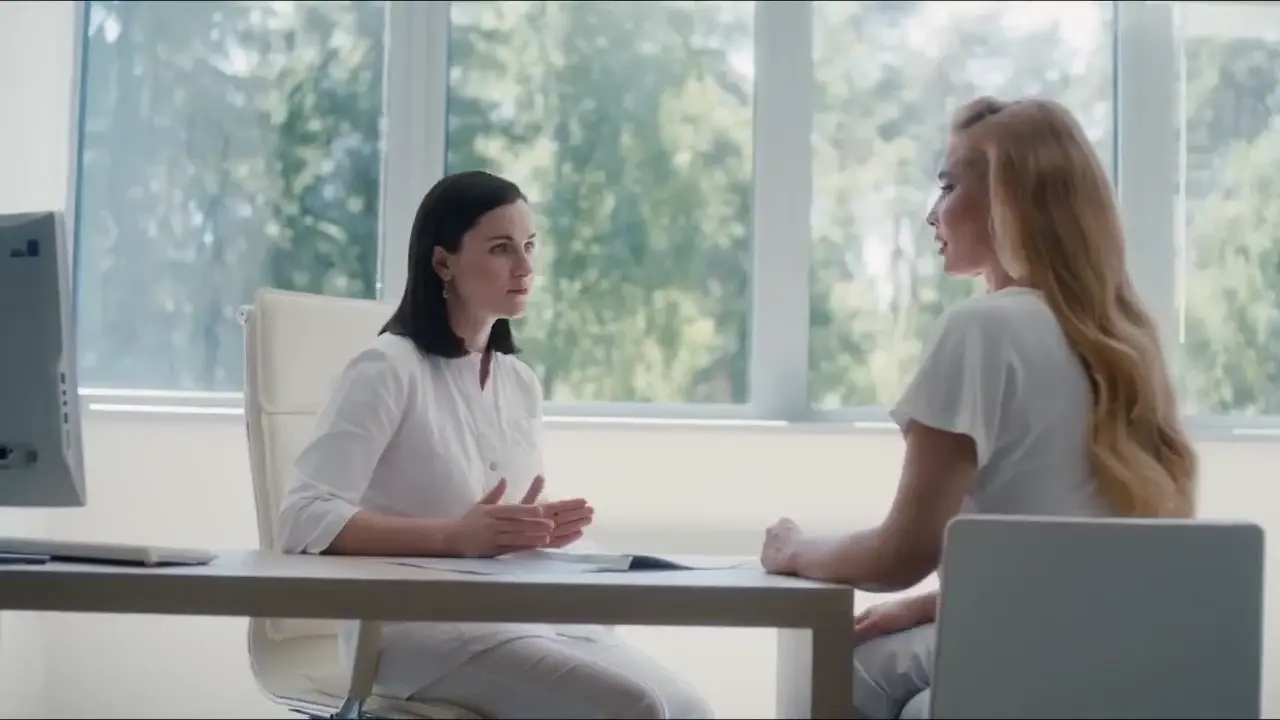
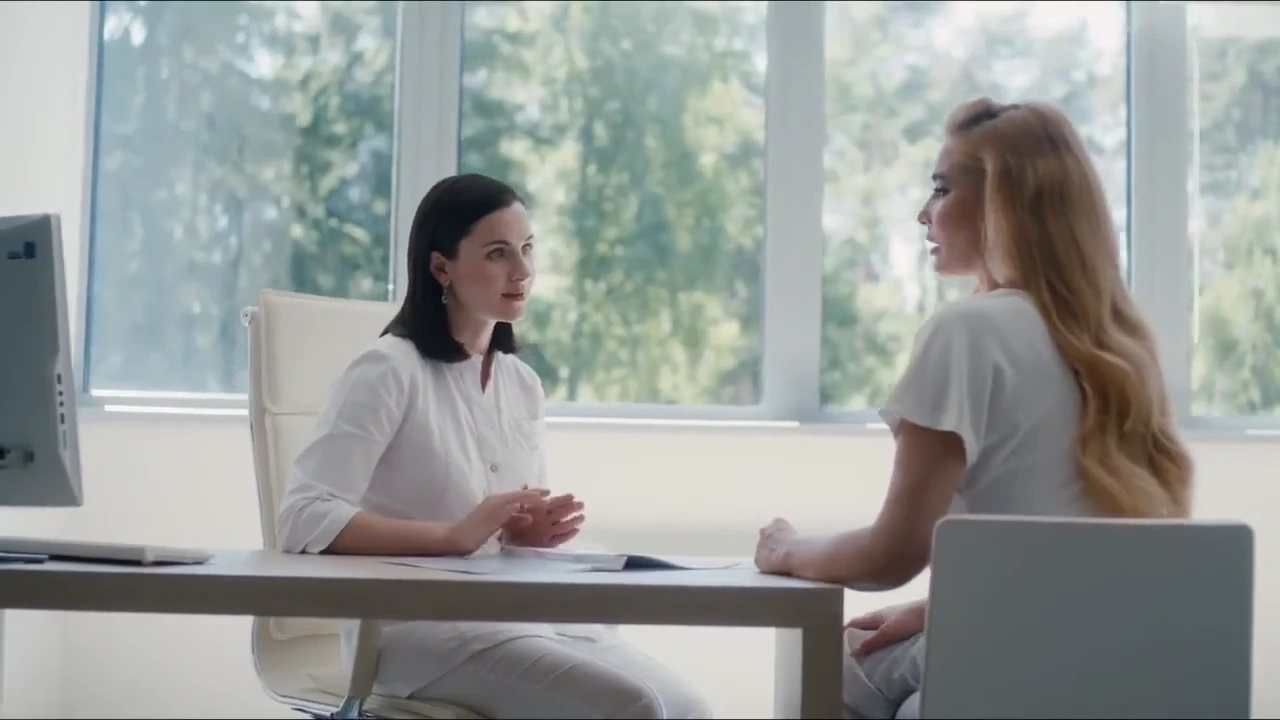
style: refine VERBA care imagery and emphasize the physician scene

diff --git a/index.html b/index.html
@@ -6,8 +6,8 @@
 <main id="main">
 <section class="hero-story" id="home" aria-labelledby="hero-title"><div class="hero-frame"><div class="hero-media"><div class="hero-camera"><video id="hero-video" muted loop playsinline preload="metadata" poster="assets/motion/hero-poster.webp" aria-label="Территория медицинского курорта VERBA"><source src="assets/motion/hero-film.mp4" type="video/mp4"></video><div class="film-shade"></div></div></div><div class="hero-topline"><span>Медицинский курорт</span><span>Подмосковье · Сосновый бор</span></div><div class="hero-title-group"><h1 id="hero-title">VERBA</h1><div class="hero-message"><p class="hero-statement">Здоровье<br>в новом ритме.</p><a class="line-link" href="#directions">Найти своё направление<svg viewBox="0 0 20 20" aria-hidden="true"><path d="M4 16 16 4M5 4h11v11"/></svg></a></div></div><div class="hero-bottom"><a href="#intro" class="scroll-link"><svg viewBox="0 0 20 20" aria-hidden="true"><path d="M10 3v14m-5-5 5 5 5-5"/></svg>В своём темпе</a><button id="video-toggle" aria-label="Остановить видео" aria-pressed="false"><svg viewBox="0 0 20 20" aria-hidden="true"><path d="M6 4v12M14 4v12"/></svg><span>Пауза видео</span></button></div><div class="hero-transition"><span class="section-label">01 / ВОССТАНОВЛЕНИЕ</span><h2><span>Медицина.</span><span>Природа.</span><span>Вы.</span></h2><p data-pretext contenteditable="false">Персональное здоровье начинается с внимания к человеку. В окружении, которое помогает услышать себя.</p></div></div></section>
 <section class="intro wrap" id="intro" aria-label="Направления VERBA"><p class="section-label">ВАШ МАРШРУТ В VERBA</p><div class="intro-grid"><p class="intro-lead" data-pretext>Питание по методу Майера. Ментальное здоровье. Эстетический уход. SPA.</p><a class="line-link" href="#directions">Выбрать направление<svg viewBox="0 0 20 20" aria-hidden="true"><path d="M4 16 16 4M5 4h11v11"/></svg></a></div></section>
-<section class="directions" id="directions" aria-labelledby="directions-title"><div class="path-layout"><div class="path-visual"><div class="path-pan"><img class="direction-image is-active" data-image="mayr" src="assets/motion/mayr.webp" width="900" height="600" alt="Ресторан VERBA" loading="lazy"><img class="direction-image" data-image="mind" src="assets/motion/mind.webp" width="900" height="600" alt="Гость VERBA в спокойной обстановке" loading="lazy"><img class="direction-image beauty-image" data-image="beauty" src="assets/motion/beauty-portrait.webp" width="1280" height="720" alt="Портрет из официального фильма VERBA" loading="lazy"><img class="direction-image" data-image="spa" src="assets/motion/spa.webp" width="900" height="600" alt="Бассейн VERBA с видом на сосновый бор" loading="lazy"></div><div class="path-shade"></div><div class="path-visual-label"><span id="visual-direction">MAYR</span><span id="visual-index">01 / 04</span></div></div><div class="path-content"><p class="section-label">ЧЕТЫРЕ НАПРАВЛЕНИЯ</p><h2 id="directions-title">Какой ритм<br>нужен вам?</h2><div class="path-tabs" role="tablist" aria-label="Направления VERBA" aria-orientation="vertical"><button class="path-tab is-active" id="tab-mayr" role="tab" aria-selected="true" aria-controls="path-panel" data-direction="mayr"><span class="tab-index">01</span><span>MAYR</span><svg viewBox="0 0 20 20" aria-hidden="true"><path d="M4 16 16 4M5 4h11v11"/></svg></button><button class="path-tab" id="tab-mind" role="tab" aria-selected="false" aria-controls="path-panel" tabindex="-1" data-direction="mind"><span class="tab-index">02</span><span>MIND</span><svg viewBox="0 0 20 20" aria-hidden="true"><path d="M4 16 16 4M5 4h11v11"/></svg></button><button class="path-tab" id="tab-beauty" role="tab" aria-selected="false" aria-controls="path-panel" tabindex="-1" data-direction="beauty"><span class="tab-index">03</span><span>BEAUTY</span><svg viewBox="0 0 20 20" aria-hidden="true"><path d="M4 16 16 4M5 4h11v11"/></svg></button><button class="path-tab" id="tab-spa" role="tab" aria-selected="false" aria-controls="path-panel" tabindex="-1" data-direction="spa"><span class="tab-index">04</span><span>SPA</span><svg viewBox="0 0 20 20" aria-hidden="true"><path d="M4 16 16 4M5 4h11v11"/></svg></button></div><div class="path-panel" id="path-panel" role="tabpanel" aria-labelledby="tab-mayr" tabindex="0"><h3 id="path-title">Лёгкость начинается изнутри.</h3><p id="path-description" data-pretext contenteditable="false">Питание и привычки по методу Майера. Внимательный медицинский подход к пищеварению и вашему самочувствию.</p><button class="line-link" data-picker data-current-direction>Составить личный план<svg viewBox="0 0 20 20" aria-hidden="true"><path d="M4 16 16 4M5 4h11v11"/></svg></button></div><p class="medical-note">Программа, длительность и противопоказания обсуждаются с врачом.</p></div></div><p class="sr-only" id="direction-status" role="status" aria-live="polite">Выбрано направление MAYR</p></section>
-<section class="medicine wrap" id="medicine"><div class="medicine-heading"><span class="section-label">ОСНОВА ВАШЕГО МАРШРУТА</span><h2 class="reveal">В центре —<br>человек.</h2></div><div class="medicine-grid"><figure><div class="portrait-crop"><img src="assets/motion/medical.webp" width="1280" height="720" alt="Консультация врача — кадр официального фильма VERBA" loading="lazy"></div><figcaption>Внимание к вашей истории.<br>Не к усреднённому сценарию.</figcaption></figure><div class="medicine-copy"><p class="medicine-lead" data-pretext contenteditable="false">Здоровье требует точности. А восстановление — заботы, пространства и времени.</p><div class="approach-row"><span>01</span><div><h3>Понять ваш запрос</h3><p>Самочувствие, привычки и личные цели — в разговоре с врачом.</p></div></div><div class="approach-row"><span>02</span><div><h3>Увидеть картину целиком</h3><p>Собственная диагностическая база. Обследования по показаниям.</p></div></div><div class="approach-row"><span>03</span><div><h3>Найти ваш маршрут</h3><p>Индивидуальный подход к питанию, восстановлению и дальнейшим шагам.</p></div></div><button class="line-link" data-picker>Начать с вашей цели<svg viewBox="0 0 20 20" aria-hidden="true"><path d="M4 16 16 4M5 4h11v11"/></svg></button></div></div></section>
+<section class="directions" id="directions" aria-labelledby="directions-title"><div class="path-layout"><div class="path-visual"><div class="path-pan"><img class="direction-image is-active" data-image="mayr" src="assets/motion/mayr.webp" width="900" height="600" alt="Ресторан VERBA" loading="lazy"><img class="direction-image" data-image="mind" src="assets/motion/mind.webp" width="900" height="600" alt="Гость VERBA в спокойной обстановке" loading="lazy"><img class="direction-image beauty-image" data-image="beauty" src="assets/motion/beauty-care.webp" width="1280" height="720" alt="Специалист VERBA с аппаратом — кадр официального фильма" loading="lazy"><img class="direction-image" data-image="spa" src="assets/motion/spa.webp" width="900" height="600" alt="Бассейн VERBA с видом на сосновый бор" loading="lazy"></div><div class="path-shade"></div><div class="path-visual-label"><span id="visual-direction">MAYR</span><span id="visual-index">01 / 04</span></div></div><div class="path-content"><p class="section-label">ЧЕТЫРЕ НАПРАВЛЕНИЯ</p><h2 id="directions-title">Какой ритм<br>нужен вам?</h2><div class="path-tabs" role="tablist" aria-label="Направления VERBA" aria-orientation="vertical"><button class="path-tab is-active" id="tab-mayr" role="tab" aria-selected="true" aria-controls="path-panel" data-direction="mayr"><span class="tab-index">01</span><span>MAYR</span><svg viewBox="0 0 20 20" aria-hidden="true"><path d="M4 16 16 4M5 4h11v11"/></svg></button><button class="path-tab" id="tab-mind" role="tab" aria-selected="false" aria-controls="path-panel" tabindex="-1" data-direction="mind"><span class="tab-index">02</span><span>MIND</span><svg viewBox="0 0 20 20" aria-hidden="true"><path d="M4 16 16 4M5 4h11v11"/></svg></button><button class="path-tab" id="tab-beauty" role="tab" aria-selected="false" aria-controls="path-panel" tabindex="-1" data-direction="beauty"><span class="tab-index">03</span><span>BEAUTY</span><svg viewBox="0 0 20 20" aria-hidden="true"><path d="M4 16 16 4M5 4h11v11"/></svg></button><button class="path-tab" id="tab-spa" role="tab" aria-selected="false" aria-controls="path-panel" tabindex="-1" data-direction="spa"><span class="tab-index">04</span><span>SPA</span><svg viewBox="0 0 20 20" aria-hidden="true"><path d="M4 16 16 4M5 4h11v11"/></svg></button></div><div class="path-panel" id="path-panel" role="tabpanel" aria-labelledby="tab-mayr" tabindex="0"><h3 id="path-title">Лёгкость начинается изнутри.</h3><p id="path-description" data-pretext contenteditable="false">Питание и привычки по методу Майера. Внимательный медицинский подход к пищеварению и вашему самочувствию.</p><button class="line-link" data-picker data-current-direction>Составить личный план<svg viewBox="0 0 20 20" aria-hidden="true"><path d="M4 16 16 4M5 4h11v11"/></svg></button></div><p class="medical-note">Программа, длительность и противопоказания обсуждаются с врачом.</p></div></div><p class="sr-only" id="direction-status" role="status" aria-live="polite">Выбрано направление MAYR</p></section>
+<section class="medicine wrap" id="medicine"><div class="medicine-heading"><span class="section-label">ОСНОВА ВАШЕГО МАРШРУТА</span><h2 class="reveal">Начинаем<br>с врача.</h2></div><div class="medicine-grid"><figure><div class="portrait-crop"><img src="assets/motion/medical.webp" width="1280" height="720" alt="Консультация врача — кадр официального фильма VERBA" loading="lazy"></div><figcaption>Консультация врача VERBA.<br>Внимание к вашей истории.</figcaption></figure><div class="medicine-copy"><p class="medicine-lead" data-pretext contenteditable="false">Консультация, диагностика по показаниям и индивидуальный план.</p><div class="approach-row"><span>01</span><div><h3>Понять ваш запрос</h3><p>Самочувствие, привычки и личные цели — в разговоре с врачом.</p></div></div><div class="approach-row"><span>02</span><div><h3>Увидеть картину целиком</h3><p>Собственная диагностическая база. Обследования по показаниям.</p></div></div><div class="approach-row"><span>03</span><div><h3>Найти ваш маршрут</h3><p>Индивидуальный подход к питанию, восстановлению и дальнейшим шагам.</p></div></div><button class="line-link" data-picker>Начать с вашей цели<svg viewBox="0 0 20 20" aria-hidden="true"><path d="M4 16 16 4M5 4h11v11"/></svg></button></div></div></section>
 <section class="retreat" id="retreat"><div class="retreat-photo"><img src="assets/motion/territory.webp" width="900" height="600" alt="Здание и территория курорта VERBA" loading="lazy"></div><div class="retreat-shade"></div><div class="retreat-content wrap"><p class="section-label">СОСНОВЫЙ БОР · 20 КМ ОТ МОСКВЫ</p><h2>Вернуться<br>к своему ритму.</h2><button class="solid-button" data-picker>Выбрать своё направление<svg viewBox="0 0 20 20" aria-hidden="true"><path d="M4 16 16 4M5 4h11v11"/></svg></button><p>Природа вокруг.<br>Внимание к вам.</p></div></section>
 <section class="faq wrap"><h2>Перед первым шагом.</h2><div class="faq-items"><details><summary>Как выбрать направление?<svg viewBox="0 0 20 20" aria-hidden="true"><path d="M10 4v12M4 10h12"/></svg></summary><p>Начните с вашей цели. Окончательный состав программы и противопоказания обсуждаются с врачом. Подбор в демоверсии помогает сформулировать запрос и не является медицинской рекомендацией.</p></details><details><summary>На сколько дней приезжать?<svg viewBox="0 0 20 20" aria-hidden="true"><path d="M10 4v12M4 10h12"/></svg></summary><p>На официальном сайте указаны программы от трёх до четырнадцати дней с возможностью продления. Длительность конкретной программы определяется индивидуально.</p></details><details><summary>Где находится VERBA?<svg viewBox="0 0 20 20" aria-hidden="true"><path d="M10 4v12M4 10h12"/></svg></summary><p>Московская область, Пушкино, улица Зелёная роща, строение 17.</p></details></div></section>
 </main>

diff --git a/styles.css b/styles.css
@@ -19,3 +19,15 @@ dialog{border:0;padding:0;width:min(560px,calc(100% - 32px));max-height:calc(100
 /* Approved refinement: a shorter bridge to the four directions. */
 .intro{padding-block:56px 64px}.intro>.section-label{margin-bottom:24px}.intro-grid{grid-template-columns:1.8fr 1fr;gap:64px;align-items:end}.intro-lead{font-size:26px;line-height:1.45;max-width:720px}.intro-grid>.line-link{justify-self:end;min-width:260px}
 @media(max-width:600px){.intro{padding-block:44px 48px}.intro-grid{grid-template-columns:1fr;gap:22px}.intro-lead{font-size:23px}.intro-grid>.line-link{justify-self:start;min-width:0;width:100%}.intro>.section-label{margin-bottom:20px}}
+
+/* Real VERBA materials: small tonal corrections, no documentary alteration. */
+.direction-image{filter:saturate(.94) contrast(.99)}
+.direction-image[data-image=mayr]{filter:saturate(.91) brightness(.99)}
+.direction-image[data-image=mind]{filter:saturate(.92) brightness(1.025)}
+.direction-image[data-image=beauty]{filter:saturate(.93) brightness(1.025)}
+.direction-image[data-image=spa]{filter:saturate(.9) brightness(1.015)}
+.beauty-image{object-position:42% 50%}.path-shade{background:linear-gradient(0deg,#10231c9a,transparent 36%)}
+.medicine-grid{grid-template-columns:1.45fr 1fr;gap:72px}.portrait-crop{height:570px}.portrait-crop>img{object-position:29% 48%}.medicine-lead{margin-bottom:28px}.approach-row{padding-block:18px}
+@media(max-width:1100px){.medicine-grid{gap:48px}}
+@media(max-width:820px){.medicine-grid{gap:36px}.portrait-crop{height:490px}}
+@media(max-width:600px){.medicine-grid{grid-template-columns:1fr;gap:30px}.portrait-crop{height:365px}.portrait-crop>img{object-position:25% 50%}.beauty-image{object-position:42% 50%}.medicine-lead{font-size:22px}.approach-row{padding-block:18px}}
